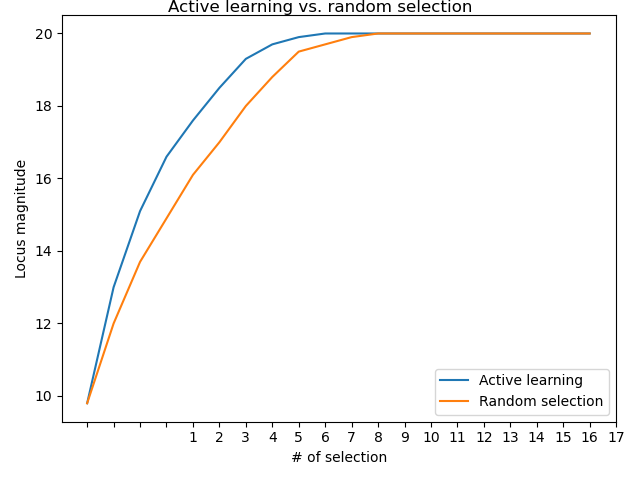
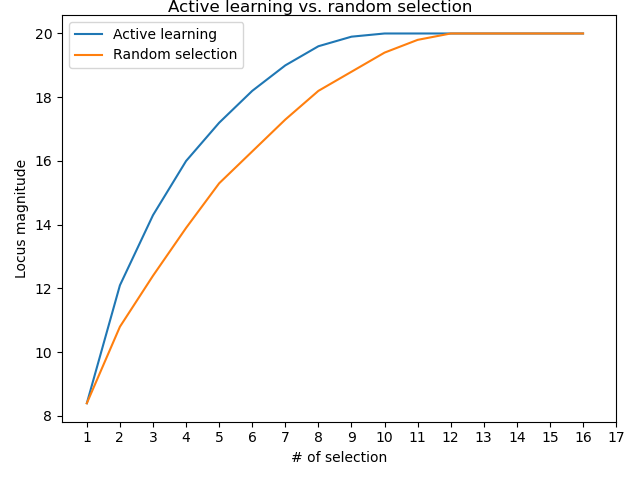
fix plot code, remove unnecessary prints

diff --git a/active_learning/run_exp.py b/active_learning/run_exp.py
@@ -13,9 +13,8 @@ def run_active_learning(tree):
         tree.add_node_to_lambda(next_node)
         tree.update_locus()
         locus_lengths.append(len(tree.locus.nodes))
-    while len(locus_lengths) < n_nodes:
+    while len(locus_lengths) < n_nodes-lambda_init_size:
         locus_lengths.append(locus_lengths[-1])
-    # print('RESULT WITH ACTIVE LEARNING', locus_lengths)
     return locus_lengths
 
 def run_random_selection(tree):
@@ -26,9 +25,8 @@ def run_random_selection(tree):
         tree.add_node_to_lambda(next_node)
         tree.update_locus()
         locus_lengths.append(len(tree.locus.nodes))
-    while len(locus_lengths) < n_nodes:
+    while len(locus_lengths) < n_nodes-lambda_init_size:
         locus_lengths.append(locus_lengths[-1])
-    # print('RESULT WITH RANDOM SELECTION', locus_lengths)
     return locus_lengths
 
 def plot_results(active_all, rnd_all):
@@ -37,13 +35,11 @@ def plot_results(active_all, rnd_all):
 
     active_all = np.mean(active_all, axis=0)
     rnd_all = np.mean(rnd_all, axis=0)
-    # plt.figure(figsize=(,8))
     plt.plot(active_all, label="Active learning")
     plt.plot(rnd_all, label="Random selection")
     plt.ylabel("Locus magnitude")
     plt.xlabel("# of selection")
-    xticks = ['' for i in range(lambda_init_size)]
-    xticks.extend([i-(lambda_init_size-1) for i in range(lambda_init_size, n_nodes+1)])
+    xticks = [i-(lambda_init_size-1) for i in range(lambda_init_size, n_nodes+1)]
     plt.xticks(range(0,len(xticks)), xticks)
     plt.tight_layout()
     plt.legend()
@@ -70,6 +66,4 @@ if __name__ == '__main__':
         active_conv_all.append(active_learning_convergence)
         rnd_conv_all.append(random_selection_convergence)
     plot_results(active_conv_all, rnd_conv_all)
-    # print(al_conv_all)
-    # print(rnd_conv_all)
     
